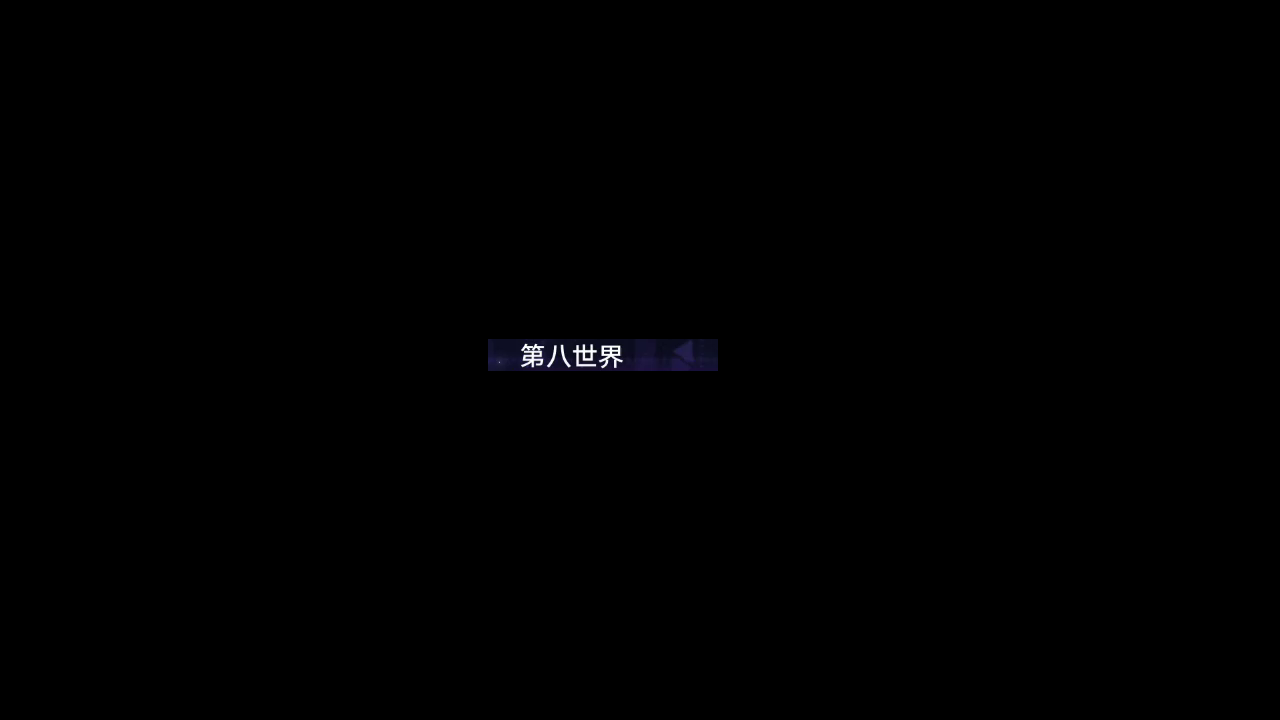
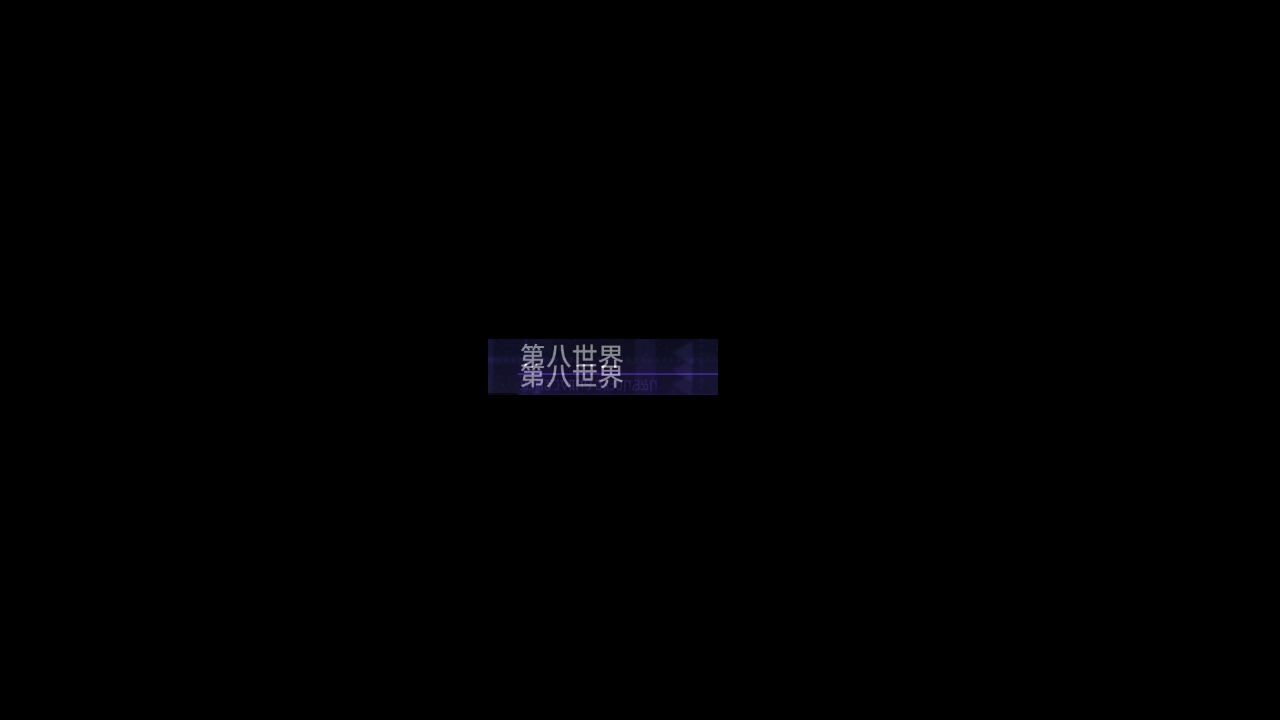
Fix: Handle OCR_WORLD moving up and down

Changed region(s): [[0.375, 0.4583, 0.5625, 0.55]]

diff --git a/tasks/rogue/entry/entry.py b/tasks/rogue/entry/entry.py
@@ -1,7 +1,11 @@
 import re
 from datetime import datetime, timedelta
 
+import cv2
+import numpy as np
+
 from module.base.timer import Timer
+from module.base.utils import color_similarity_2d
 from module.exception import RequestHumanTakeover, ScriptError
 from module.logger import logger
 from module.ocr.ocr import Ocr
@@ -67,6 +71,16 @@ def chinese_to_arabic(chinese_number: str) -> int:
 
 
 class OcrRogueWorld(Ocr):
+    def pre_process(self, image):
+        # Letter randomly moving up and down
+        # Crop to the up/down border of the white letter
+        center = color_similarity_2d(image, color=(255, 255, 255))
+        cv2.inRange(center, 180, 255, dst=center)
+        center = np.where(np.sum(center, axis=1) > 200)[0]
+        up, down = center[0], center[-1]
+        image = image[up:down, :, :]
+        return image
+
     def format_result(self, result: str) -> int:
         res = re.search(r'第([一二三四五六七八九十])世界', result)
         if res:

diff --git a/tasks/rogue/assets/assets_rogue_entry.py b/tasks/rogue/assets/assets_rogue_entry.py
@@ -27,10 +27,10 @@ OCR_WORLD = ButtonWrapper(
     name='OCR_WORLD',
     share=Button(
         file='./assets/share/rogue/entry/OCR_WORLD.png',
-        area=(488, 339, 718, 371),
-        search=(468, 319, 738, 391),
-        color=(45, 44, 68),
-        button=(488, 339, 718, 371),
+        area=(488, 339, 718, 395),
+        search=(468, 319, 738, 415),
+        color=(38, 35, 64),
+        button=(488, 339, 718, 395),
     ),
 )
 THEME_DLC = ButtonWrapper(
